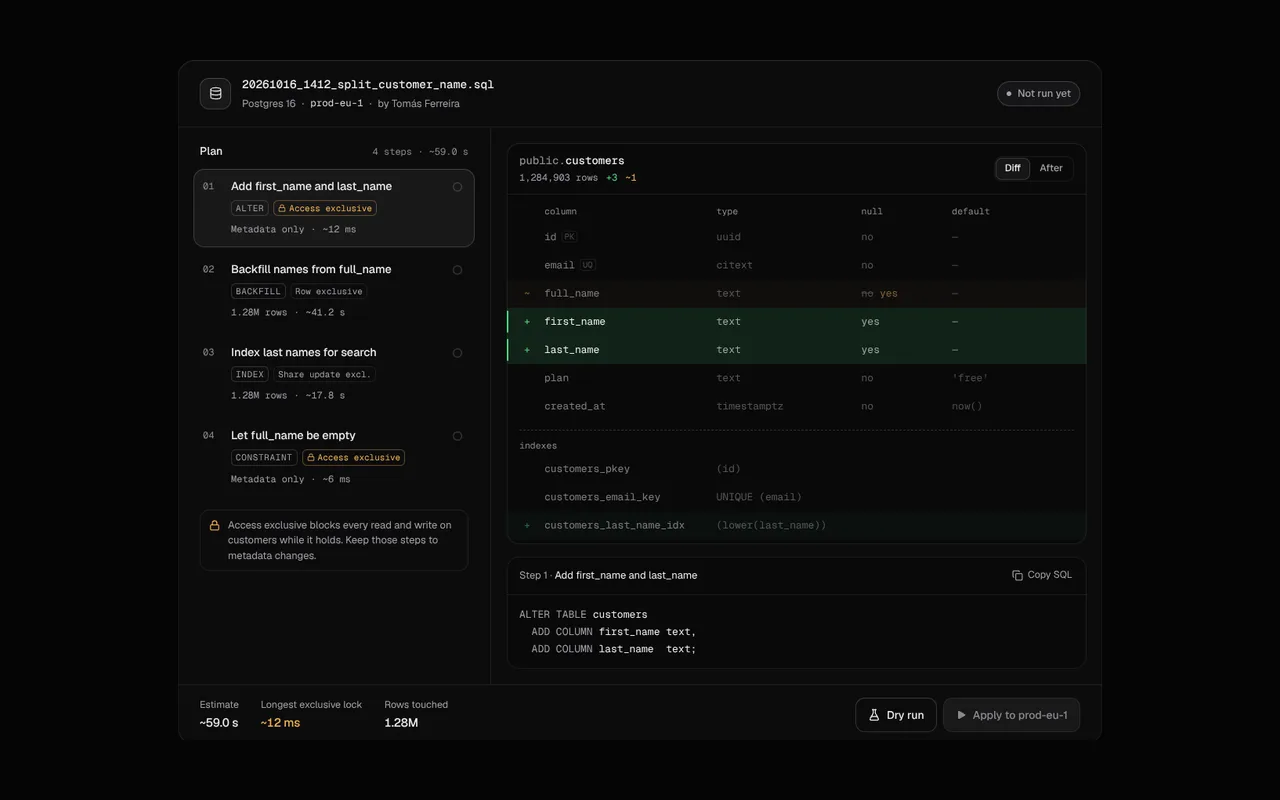
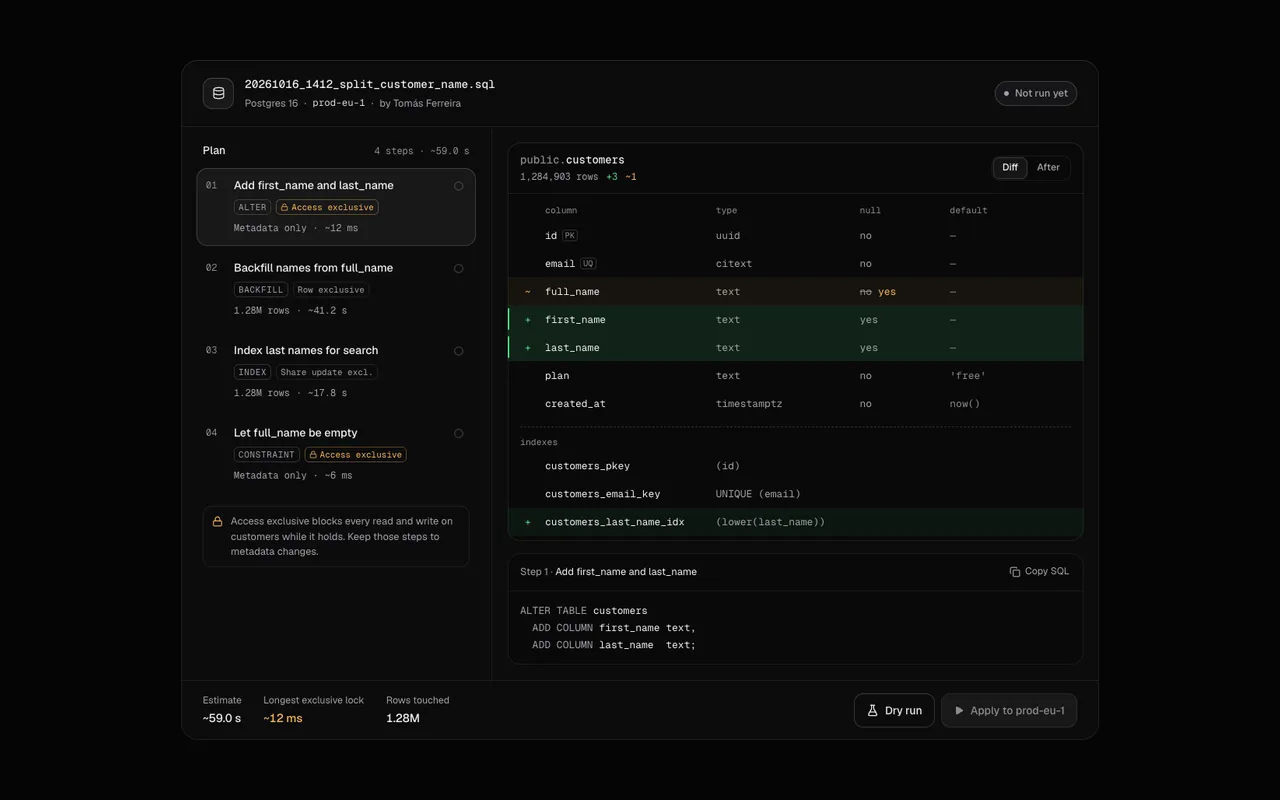
Cover migration report gates and keyboard SQL review

diff --git a/docs/review/HANDOFF_TASKS.md b/docs/review/HANDOFF_TASKS.md
@@ -6,6 +6,8 @@ and how to know it's done. Pick any of them up independently. Background, briefs
 
 ## Follow-up progress (17–21 October 2026)
 
+- Task 5 (21 October): Schema Migration now detaches callback plans and retained step reports. Missing, duplicate, unknown and non-finite results cannot authorize Apply; a valid failed prefix keeps its actual error. Unverified reports leave database state unconfirmed and require a fresh passing dry run. Empty plans cannot run, and the built-in sample runner remains usable. Four original contract failures, eight initial state-audit failures and the missing-focus counterexample remain archived. The complete fifteen-fixture registered workflow, twelve native state audits and separate visible keyboard-focus control pass. All twelve state captures and the corrected focus pair are inspected. The state-audit source differs from the final source only by that independently verified focus correction. Its inspected current poster retains the complete card and footer in measured 1504×940 framing; the film remains queued. Both new display messages are covered in all 29 translated editions, with all prior values preserved. The wider localisation audit reports 183,990 existing gaps, zero invalid protected terms and English fallback. Strict registry, root/all-eleven-block types and all 1,099 unit tests pass on the shared Node24 checkpoint with every implementation input fixed. Original unit assertions and limits remain unchanged; earlier timing failures and recovery controls are preserved. Private correction: `b0e47b0`. There are now 37 older probes and 123 films outstanding. Evidence uses `test-results/handoff-older-probes/` with `migration-contract-*`, `migration-readable-state-a11y/`, `migration-sql-focus-*`, `schema-migration-registered-visible-focus/`, `migration-poster-framed/` and `migration-translations/` and `developer-devtools-unit-recovery-node24-*`.
+
 - Task 5 (21 October): Request Replay now settles Cancel locally even when its transport ignores AbortSignal, and job identity prevents retired resolutions or rejections from settling a newer request. Initial run/draft state, edit notifications, dispatched requests and received header tuples retain detached snapshots. All three original counterexamples remain archived. The expanded three-mount native and registered workflows verify both Cancel routes, exact retries, retained drafts, late resolve/reject isolation, response headers, invalid JSON and keyboard reset. Current cancellation/header captures are inspected. Default presentation and its queued film are unchanged. Strict registry, root/all-eleven-block types and all 1,099 unit tests pass on the shared Node24 checkpoint with every implementation input fixed. Original unit assertions and limits remain unchanged; earlier timing failures and recovery controls are preserved. Private correction: `58444d1`. There are now 38 older probes and 123 films outstanding. Evidence uses `test-results/handoff-older-probes/` with `replay-contract-baseline/`, `replay-contract-final/`, `replay-complete-native/` and `request-replay-registered-final/` and `developer-devtools-unit-recovery-node24-*`.
 
 - Task 5 (21 October): Release Compare now disables deployment without a writer and passes detached base/target snapshots. Both original counterexamples remain archived. Its three native mounts and complete registered workflow cover review gates, exact failed-then-successful requests, retained viewed files, keyboard target selection, rollback direction, loading retry and empty comparisons. Both inspected phone state captures pass; default presentation and its queued film are unchanged. Strict registry, root/all-eleven-block types and all 1,099 unit tests pass on the shared Node24 checkpoint with every implementation input fixed. Original unit assertions and limits remain unchanged; earlier timing failures and recovery controls are preserved. Private correction: `e77e486`. There are now 39 older probes and 123 films outstanding. Evidence uses `test-results/handoff-older-probes/` with `release-contract-baseline/`, `release-contract-final/`, `release-complete-native/` and `release-registered/` and `developer-devtools-unit-recovery-node24-*`.
@@ -703,7 +705,7 @@ runs. Earlier checkpoints and their original failures remain archived below.
 
 ## 5. Write browser probes for components that have none
 
-38 finished components still have no dedicated browser regression probe. For each, read its source and
+37 finished components still have no dedicated browser regression probe. For each, read its source and
 `meta.json`, then add a case to the appropriate `tests/browser/*.mjs` suite (or a new probe registered in
 `scripts/test-components.mjs`) covering: the signature interaction, keyboard paths, failed-then-successful callbacks
 with drafts kept (where it has async callbacks), and empty or invalid data. Use `tests/browser/pro-50/hr-org-explorer.mjs`
@@ -712,7 +714,7 @@ see `tests/browser/mobile-accessibility-probe.mjs` for a native example.
 
 
 
-`devtools-schema-migration`
+
 `date-range-calendar`, `date-timezone-overlap`, `forms-branching-survey`, `forms-draft-rescue`
 `input-cron-builder`, `input-detent-dial`, `input-dual-range`, `input-expression-editor`, `input-unit-converter`
 `selects-tree-picker`, `layout-split-resizer`

diff --git a/docs/review/STATUS.md b/docs/review/STATUS.md
@@ -1,6 +1,6 @@
 # Review status
 
-Current inventory (21 October): all 202 standalone reviews and all eleven block reviews are complete; 38 older interaction probes and 123 films remain.
+Current inventory (21 October): all 202 standalone reviews and all eleven block reviews are complete; 37 older interaction probes and 123 films remain.
 
 Task 1 (20 October): Settings Panel has a reviewed 5.7s, 131 KB first refresh film and paired settled Next poster for its stronger fields. The exact replay enables Product news, selects Compact density and saves both values once; browser playback and an independent decoder reach the same Changes saved ending. All states fit measured 832×800 framing with the complete 680px panel visible. Maximum source gap is 43ms, changed-source delivery is 37.52ms and moving-frame p95 is 18.53ms, with no stalls, unchanged guards and all 88 capture inputs fixed. The earlier original assets remain archived. All eleven blocks are complete; 59 older probes and 123 films remain. The complete 68-suite release checkpoint is next. Evidence uses `test-results/handoff-blocks/settings-panel-*`.
 
@@ -314,7 +314,7 @@ See [the handoff checkpoint](HANDOFF_TASKS.md#8-final-release-checks) for revisi
 | `devtools-incident-timeline` | new | current | Invalid-time, empty Replay and detached seek guards; readable states, exact-time stacked mouse/touch targets, registered regression and current poster. Film queued. |
 | `devtools-release-compare` | new | current | Missing-writer and detached deployment guards; review gates, retained exact retries and keyboard rollback regression. Film queued. |
 | `devtools-request-replay` | new | current | Immediate local cancellation, retired replies and detached requests/responses; exact retries, keyboard paths and invalid-body regression. Film queued. |
-| `devtools-schema-migration` | new | current |  |
+| `devtools-schema-migration` | new | current | Detached plans/results, validated reports and empty-plan gates; readable table/skipped states, visible keyboard SQL focus and 15-fixture regression. Poster current; film queued. |
 
 ## Inputs, forms, dates and selects (14)
 
